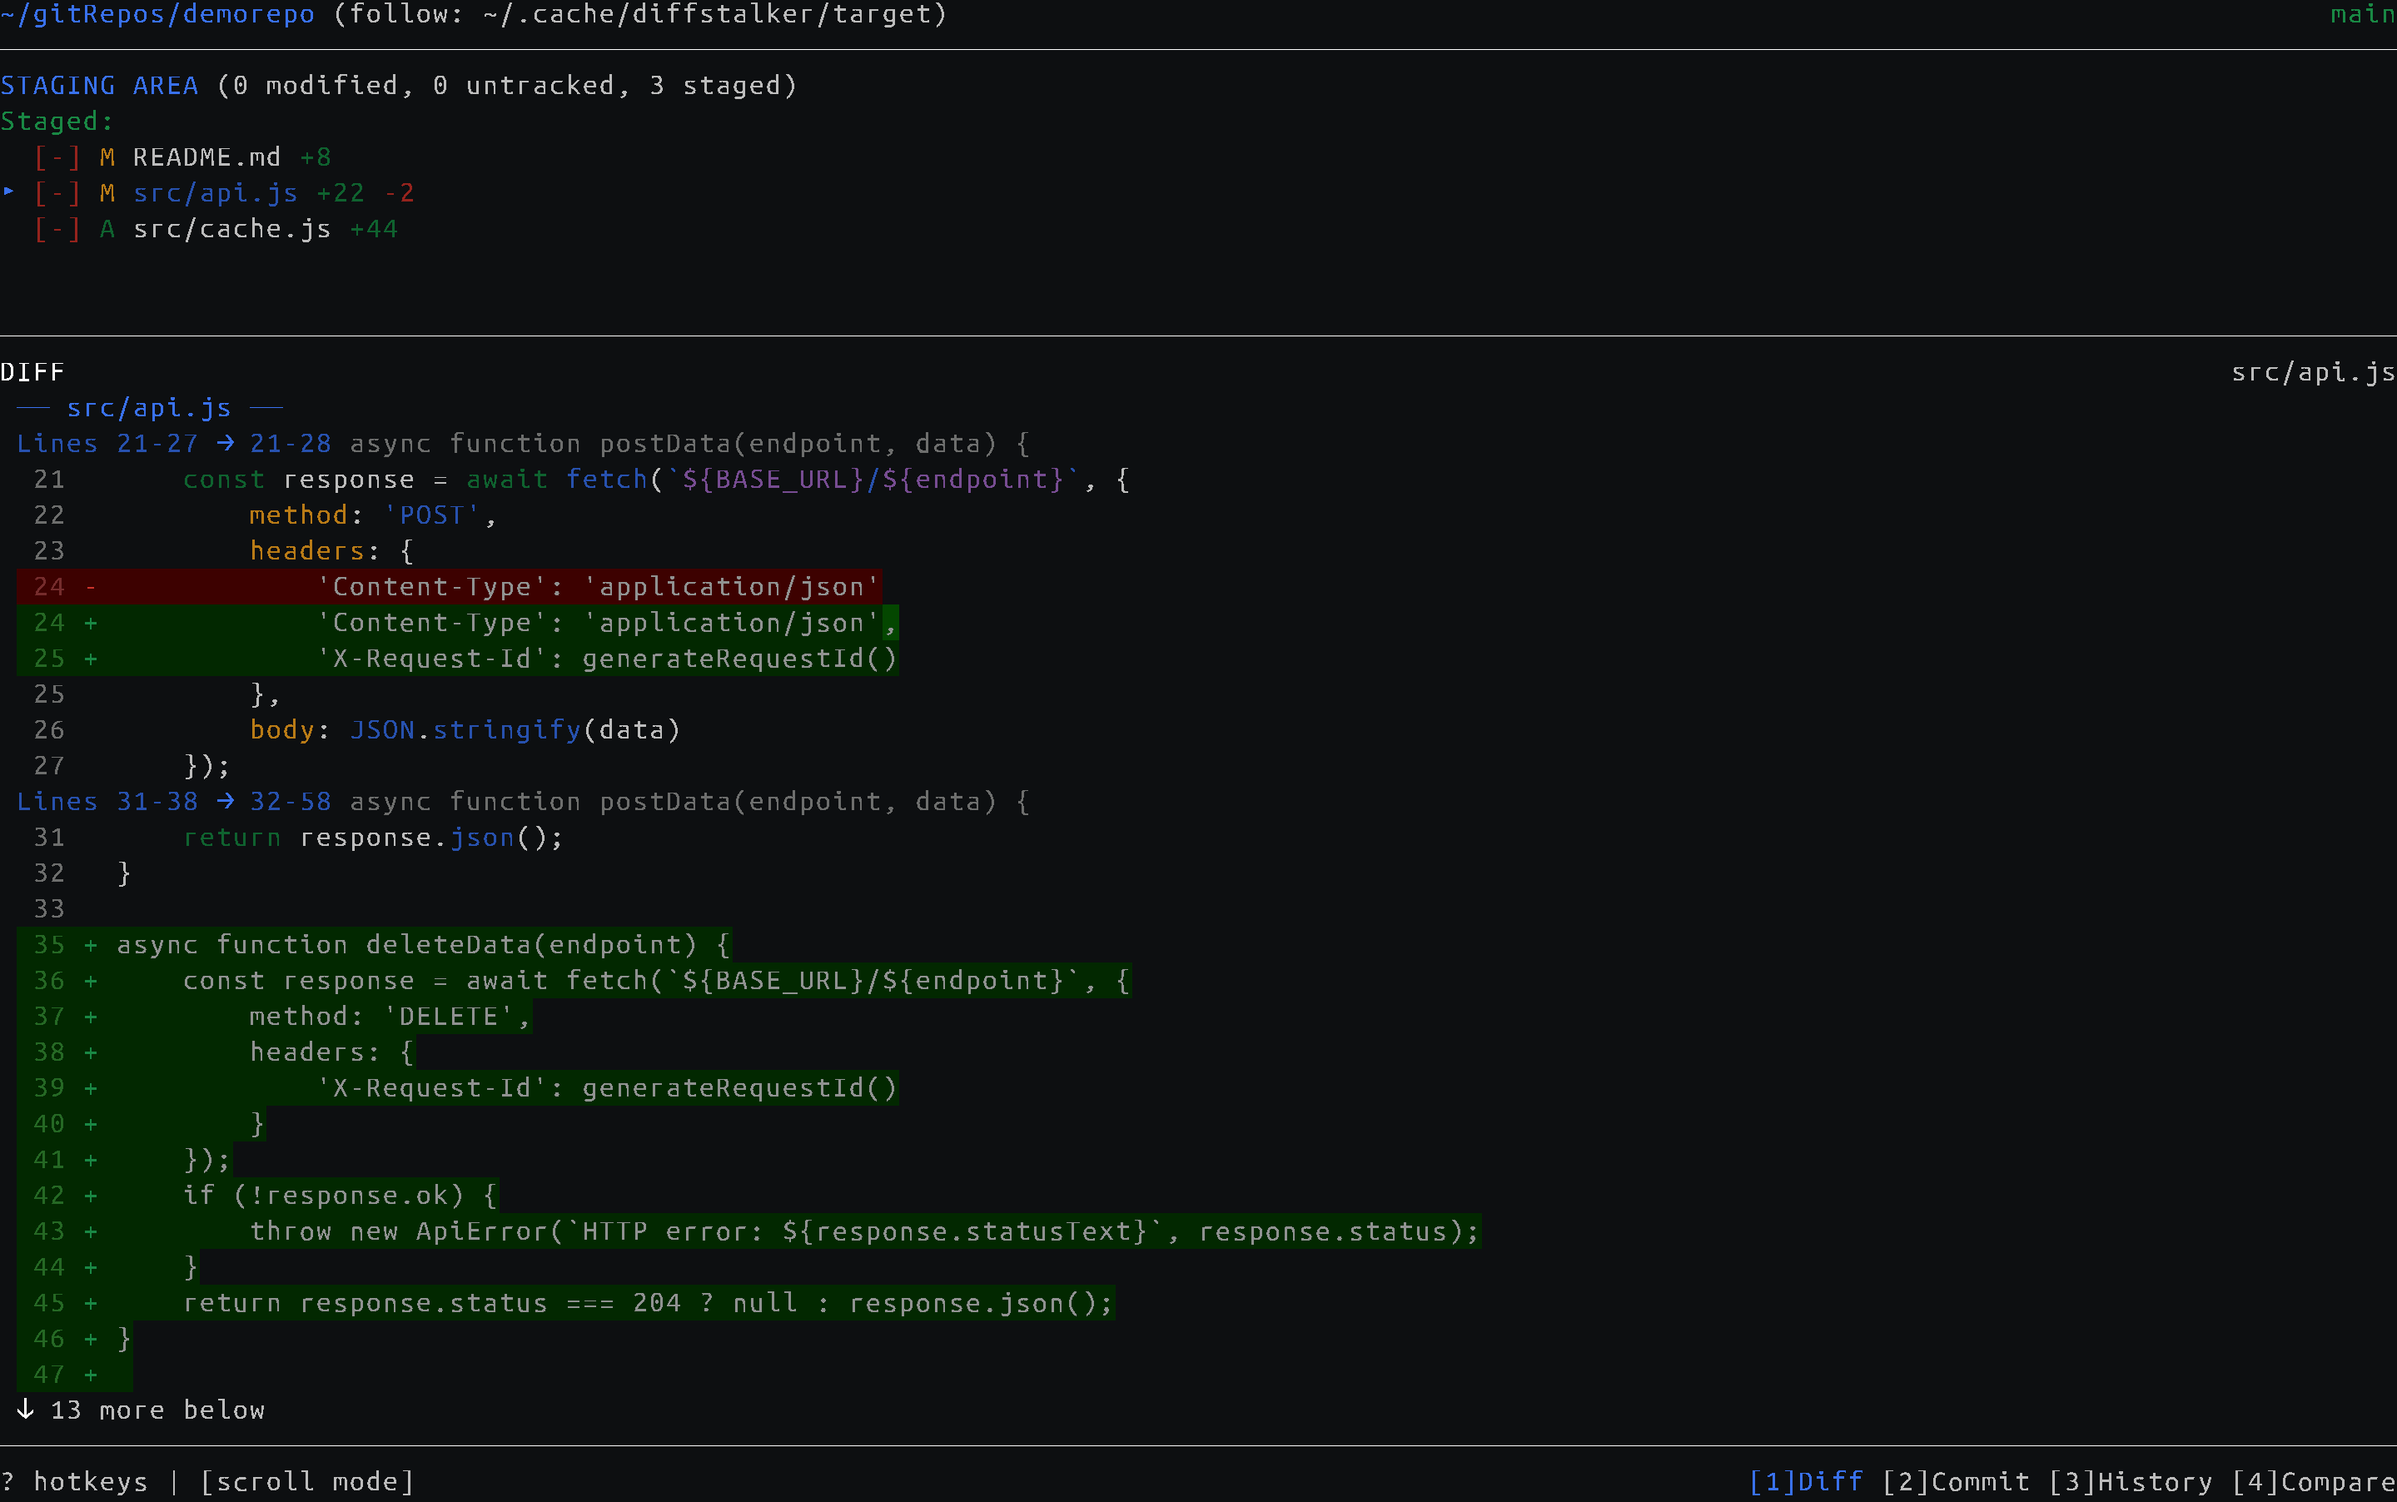
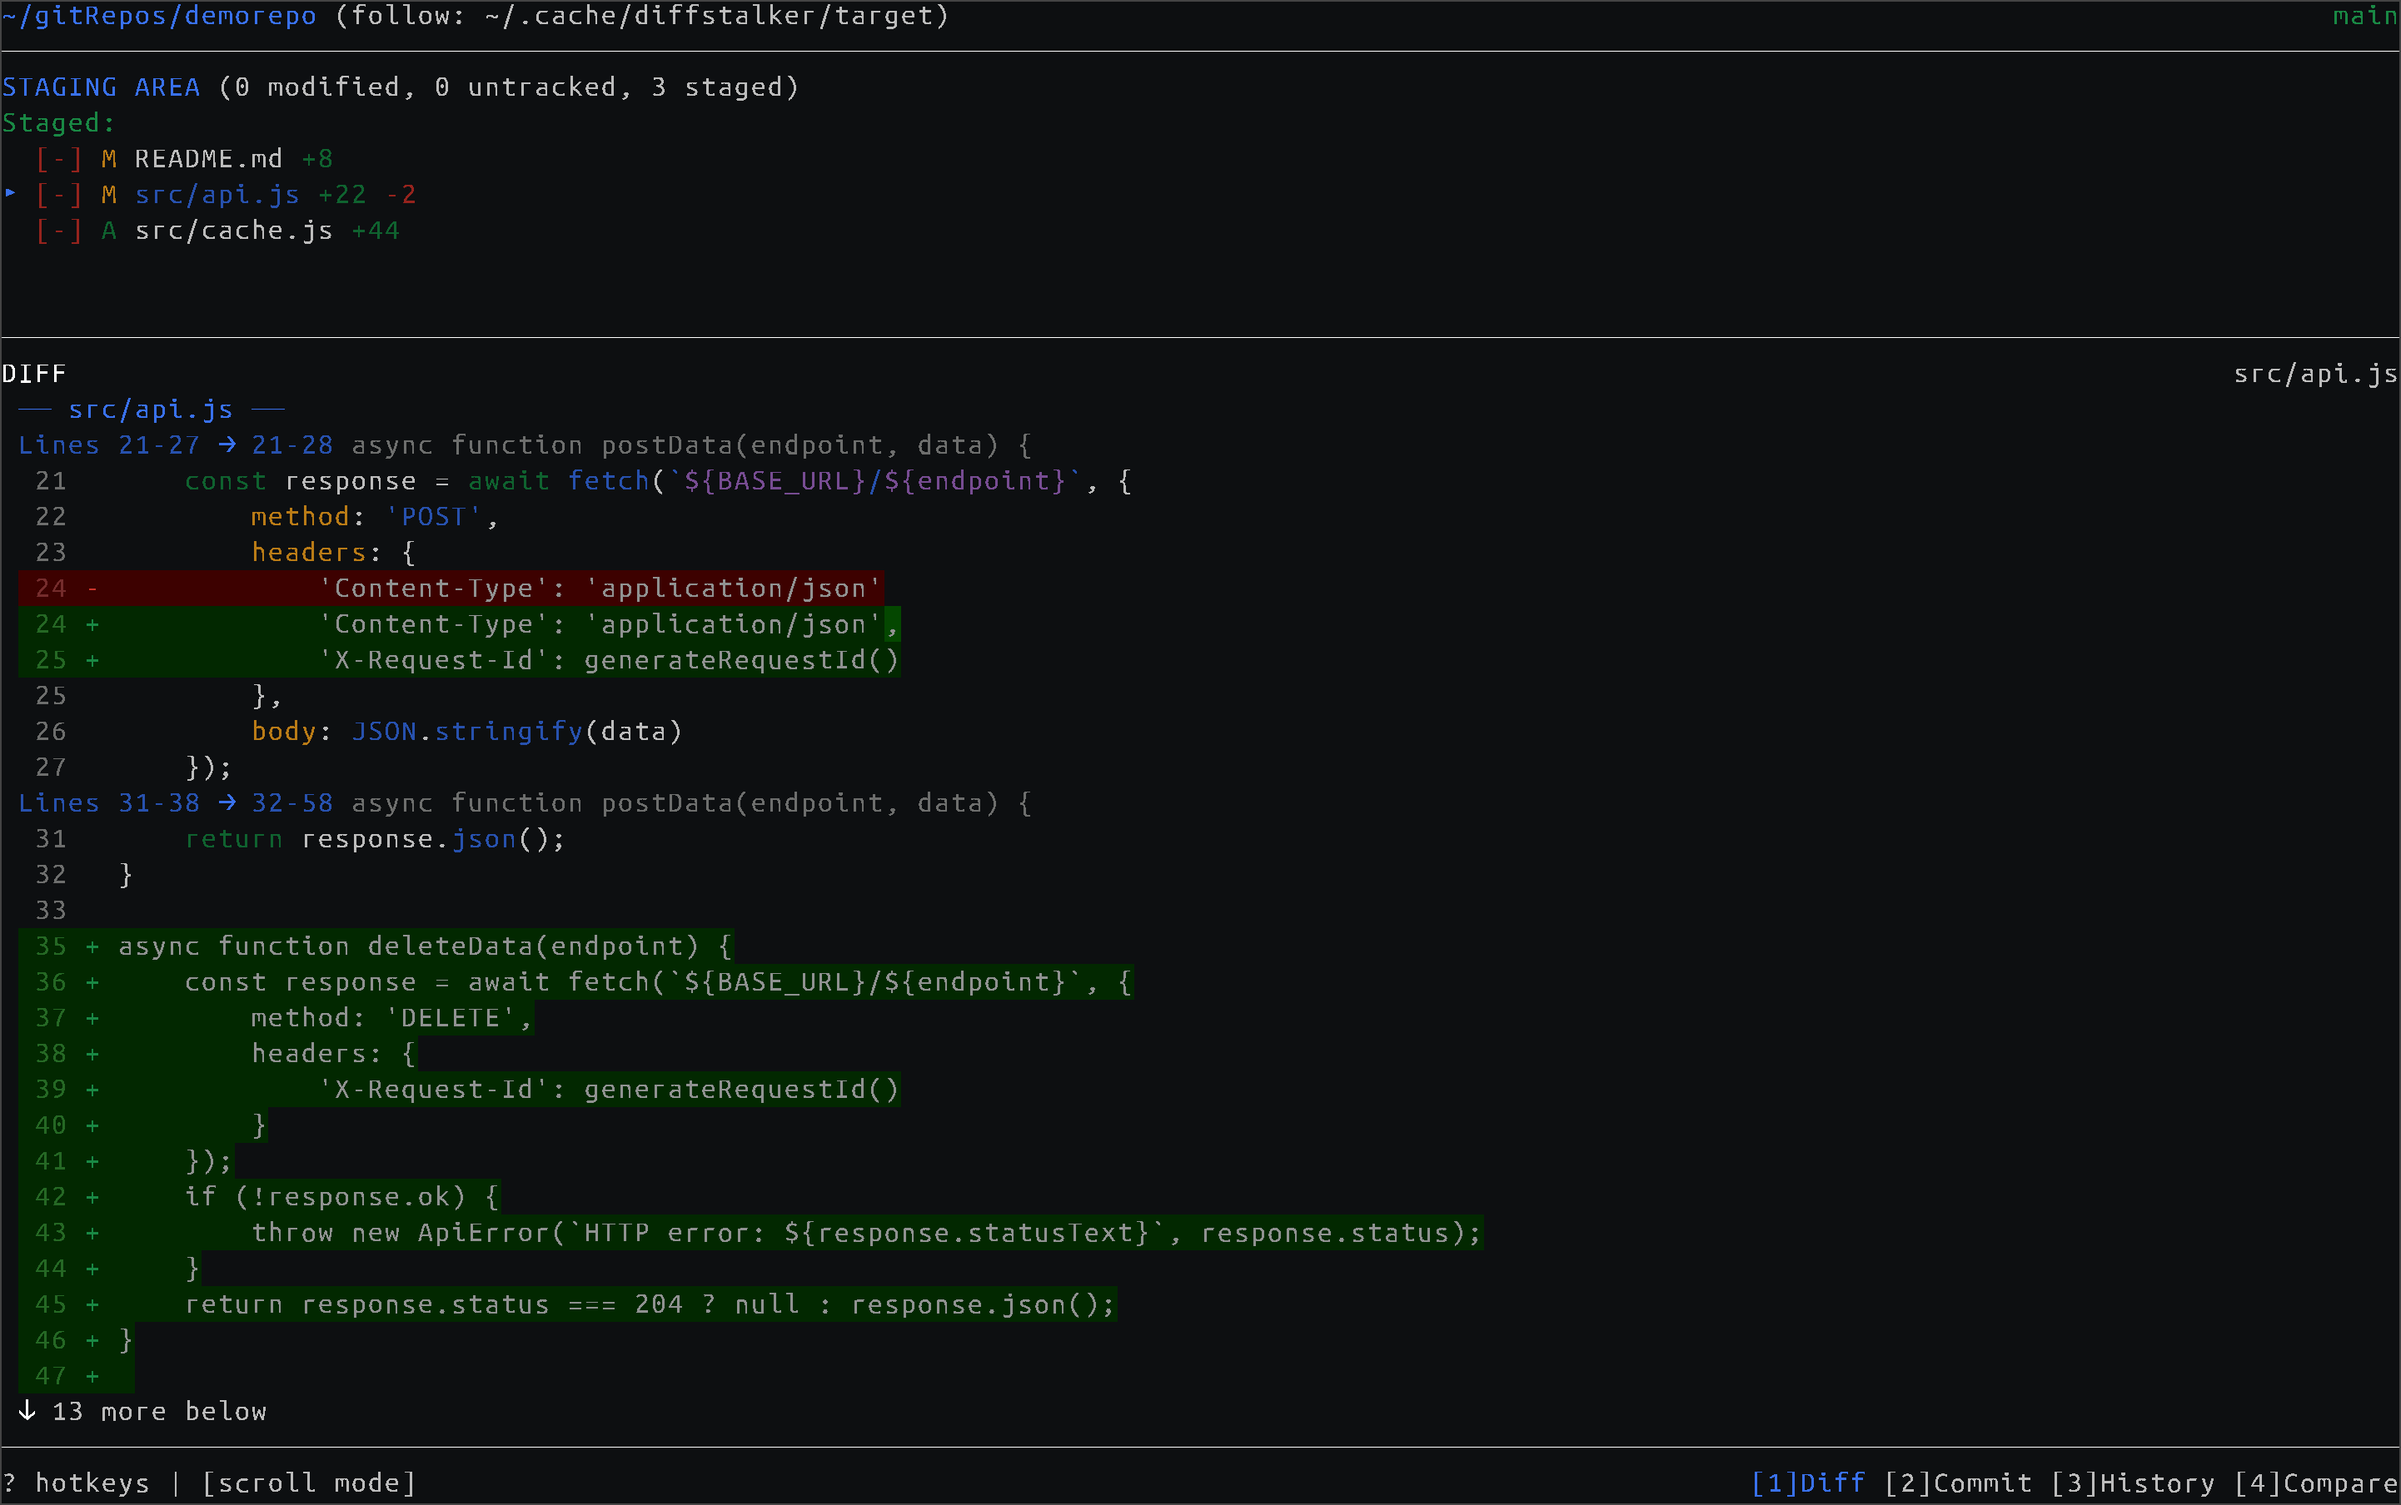
Add borders to screenshots, replace em dashes

diff --git a/README.md b/README.md
@@ -9,20 +9,20 @@ Keep your changes visible. A terminal-based git UI designed to run on a secondar
 
 **Keep up with AI.** When AI assistants edit your code, changes happen fast. diffstalker gives you a live view of what's being modified, so you can review changes as they happen rather than piecing things together afterward.
 
-**Always-on visibility.** Put diffstalker on your second monitor and forget about it. As you switch between projects, it follows along—showing your current changes, staged files, and diffs without you ever needing to alt-tab or type `git status`.
+**Always-on visibility.** Put diffstalker on your second monitor and forget about it. As you switch between projects, it follows along - showing your current changes, staged files, and diffs without you ever needing to alt-tab or type `git status`.
 
 **Dead-simple integration.** Follow mode watches a plain text file for paths. Any script, hook, or tool can write to it. Add two lines to your shell config and every `cd` into a git repo updates the display automatically.
 
-**Everything at a glance.** Auto-tab mode ensures there's always something useful on screen—uncommitted changes when you have them, recent commits when you don't. Word-level diff highlighting shows exactly what changed, not just which lines.
+**Everything at a glance.** Auto-tab mode ensures there's always something useful on screen - uncommitted changes when you have them, recent commits when you don't. Word-level diff highlighting shows exactly what changed, not just which lines.
 
 ## Features
 
-- **Follow mode** — Automatically tracks repos via a simple file-based hook
-- **Auto-tab** — Always shows relevant content (changes → history → PR diff)
-- **Word-level diffs** — See precise changes within each line
-- **Four views** — Diff, Commit, History, and PR comparison
-- **Mouse & keyboard** — Click, scroll, or use vim-style navigation
-- **6 themes** — Including colorblind-friendly and ANSI-only variants
+- **Follow mode** - Automatically tracks repos via a simple file-based hook
+- **Auto-tab** - Always shows relevant content (changes → history → PR diff)
+- **Word-level diffs** - See precise changes within each line
+- **Four views** - Diff, Commit, History, and PR comparison
+- **Mouse & keyboard** - Click, scroll, or use vim-style navigation
+- **6 themes** - Including colorblind-friendly and ANSI-only variants
 
 ## Installation
 
@@ -51,11 +51,11 @@ diffstalker /path/to/repo
 diffstalker --follow
 ```
 
-Follow mode watches `~/.cache/diffstalker/target` for repository paths. Write or append to this file—diffstalker reads the last non-empty line, so both styles work:
+Follow mode watches `~/.cache/diffstalker/target` for repository paths. Write or append to this file - diffstalker reads the last non-empty line, so both styles work:
 
 ### Integration Examples
 
-**Shell hook** — update on every `cd`:
+**Shell hook** - update on every `cd`:
 ```bash
 # Add to .bashrc or .zshrc
 diffstalker_notify() {
@@ -64,13 +64,13 @@ diffstalker_notify() {
 cd() { builtin cd "$@" && diffstalker_notify; }
 ```
 
-**Tmux** — update on pane/window switch:
+**Tmux** - update on pane/window switch:
 ```bash
 # In .tmux.conf
 set-hook -g pane-focus-in 'run-shell "tmux display -p \"#{pane_current_path}\" > ~/.cache/diffstalker/target"'
 ```
 
-**Neovim** — update when changing buffers:
+**Neovim** - update when changing buffers:
 ```lua
 -- In init.lua
 vim.api.nvim_create_autocmd({"BufEnter"}, {
@@ -84,13 +84,13 @@ vim.api.nvim_create_autocmd({"BufEnter"}, {
 })
 ```
 
-**Any script** — write or append:
+**Any script** - write or append:
 ```bash
 echo "/path/to/repo" > ~/.cache/diffstalker/target   # overwrite
 echo "/path/to/repo" >> ~/.cache/diffstalker/target  # append (also works)
 ```
 
-The file-based approach is intentionally simple. IDE plugins, window manager hooks, project switchers, git hooks—if it can write to a file, it can drive diffstalker. Get creative.
+The file-based approach is intentionally simple. IDE plugins, window manager hooks, project switchers, git hooks - if it can write to a file, it can drive diffstalker. Get creative.
 
 ## Views
 
